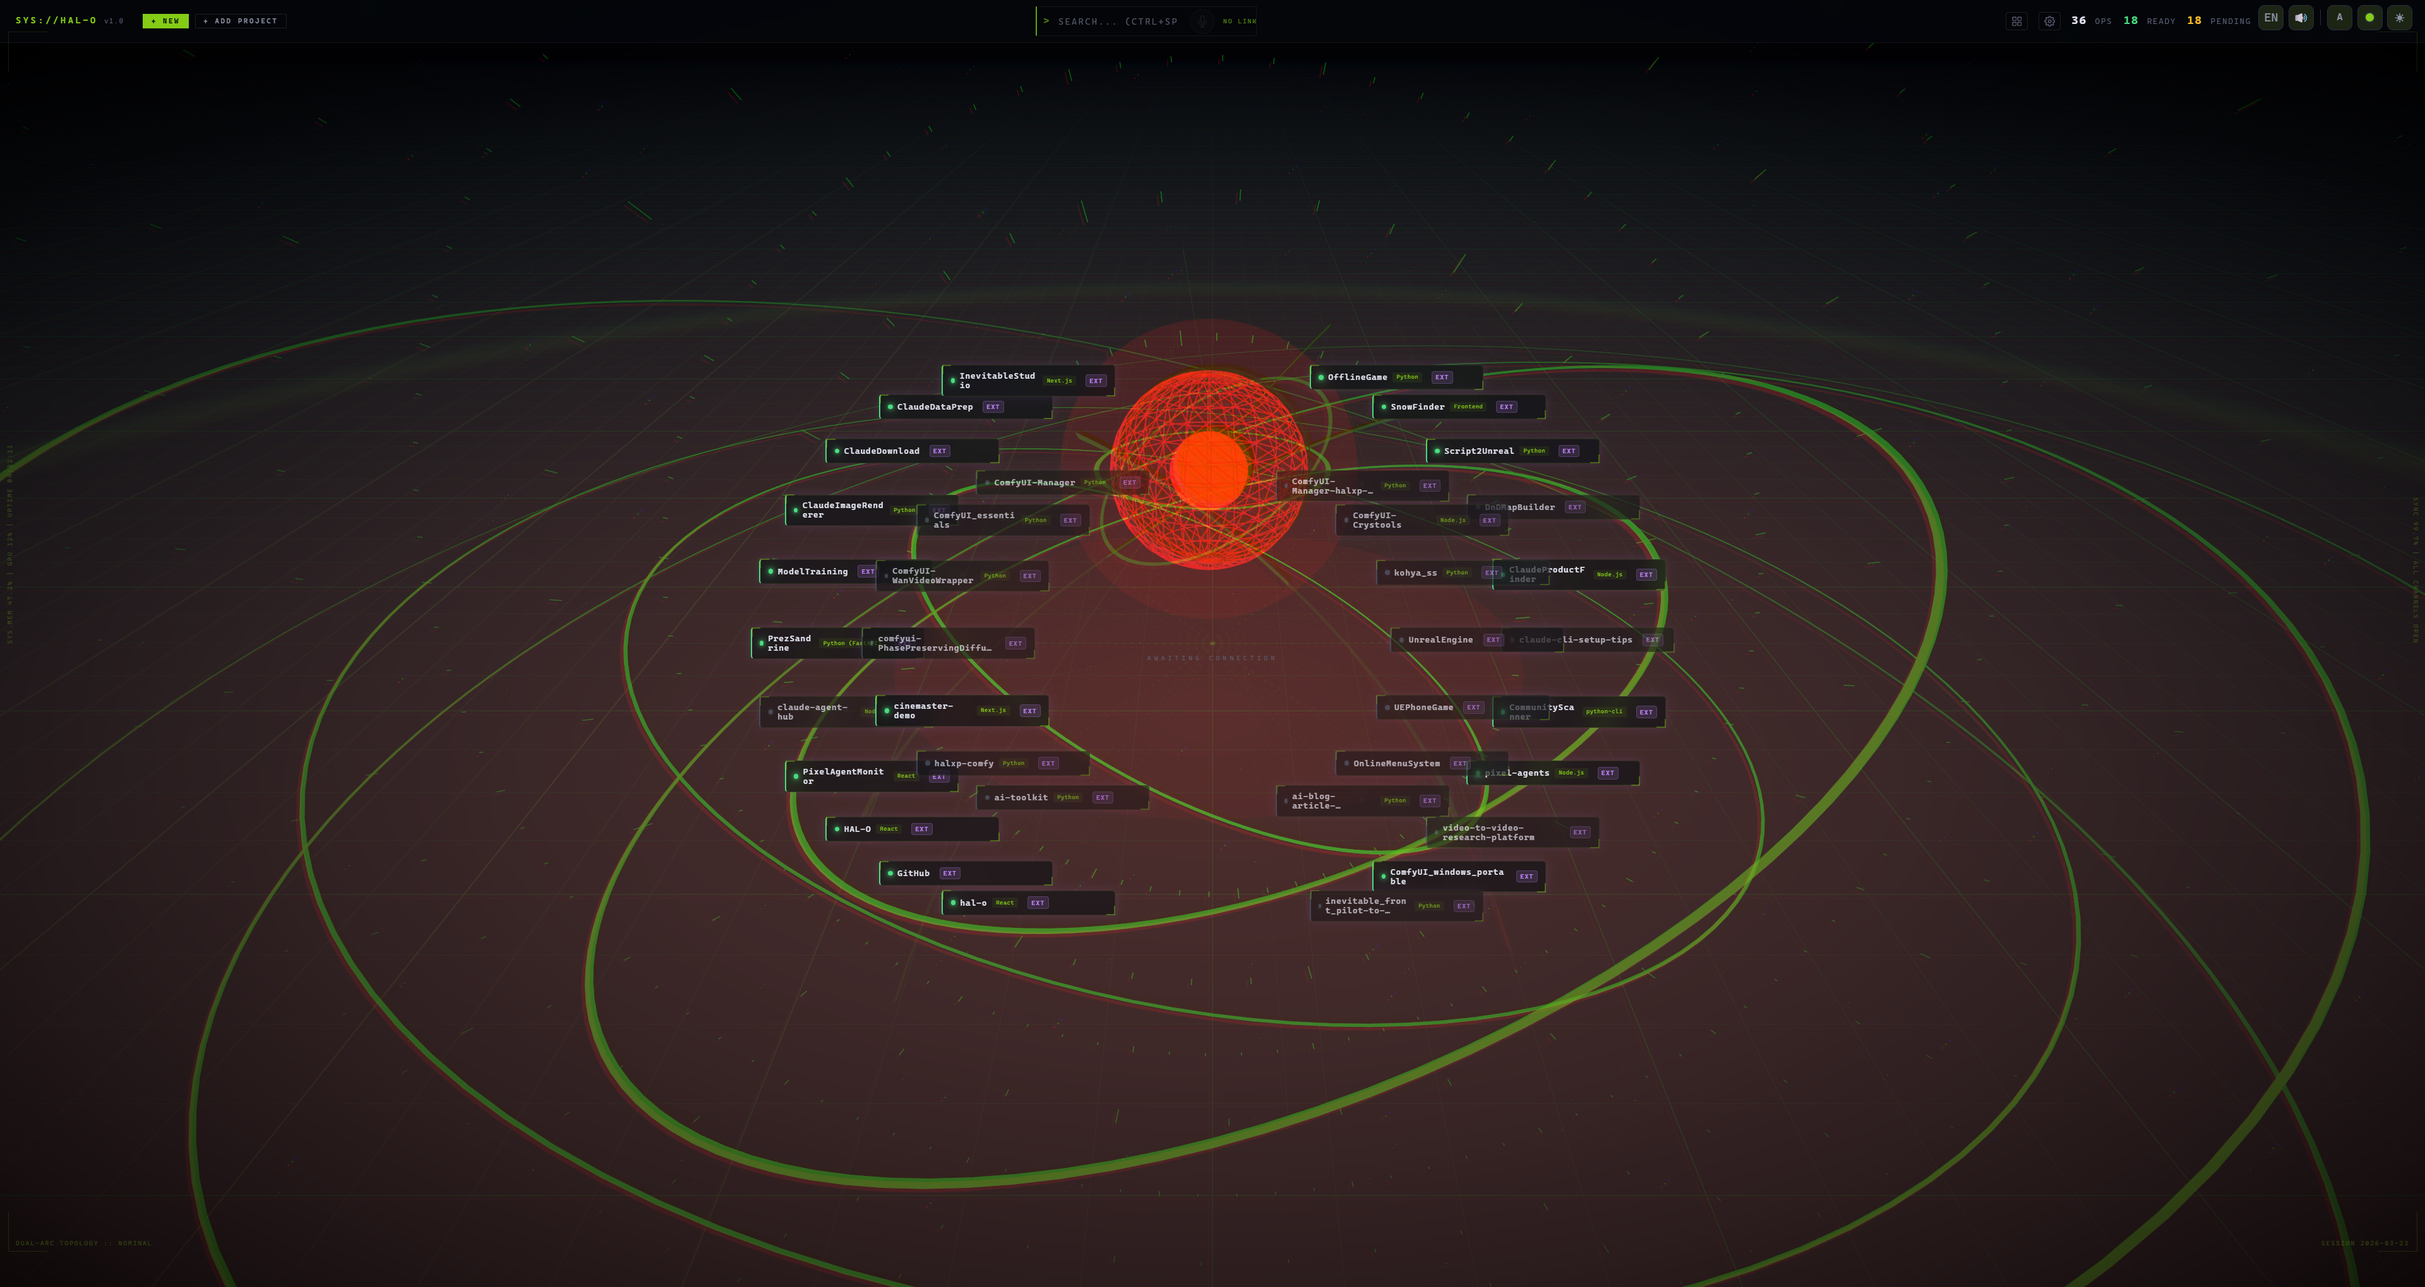
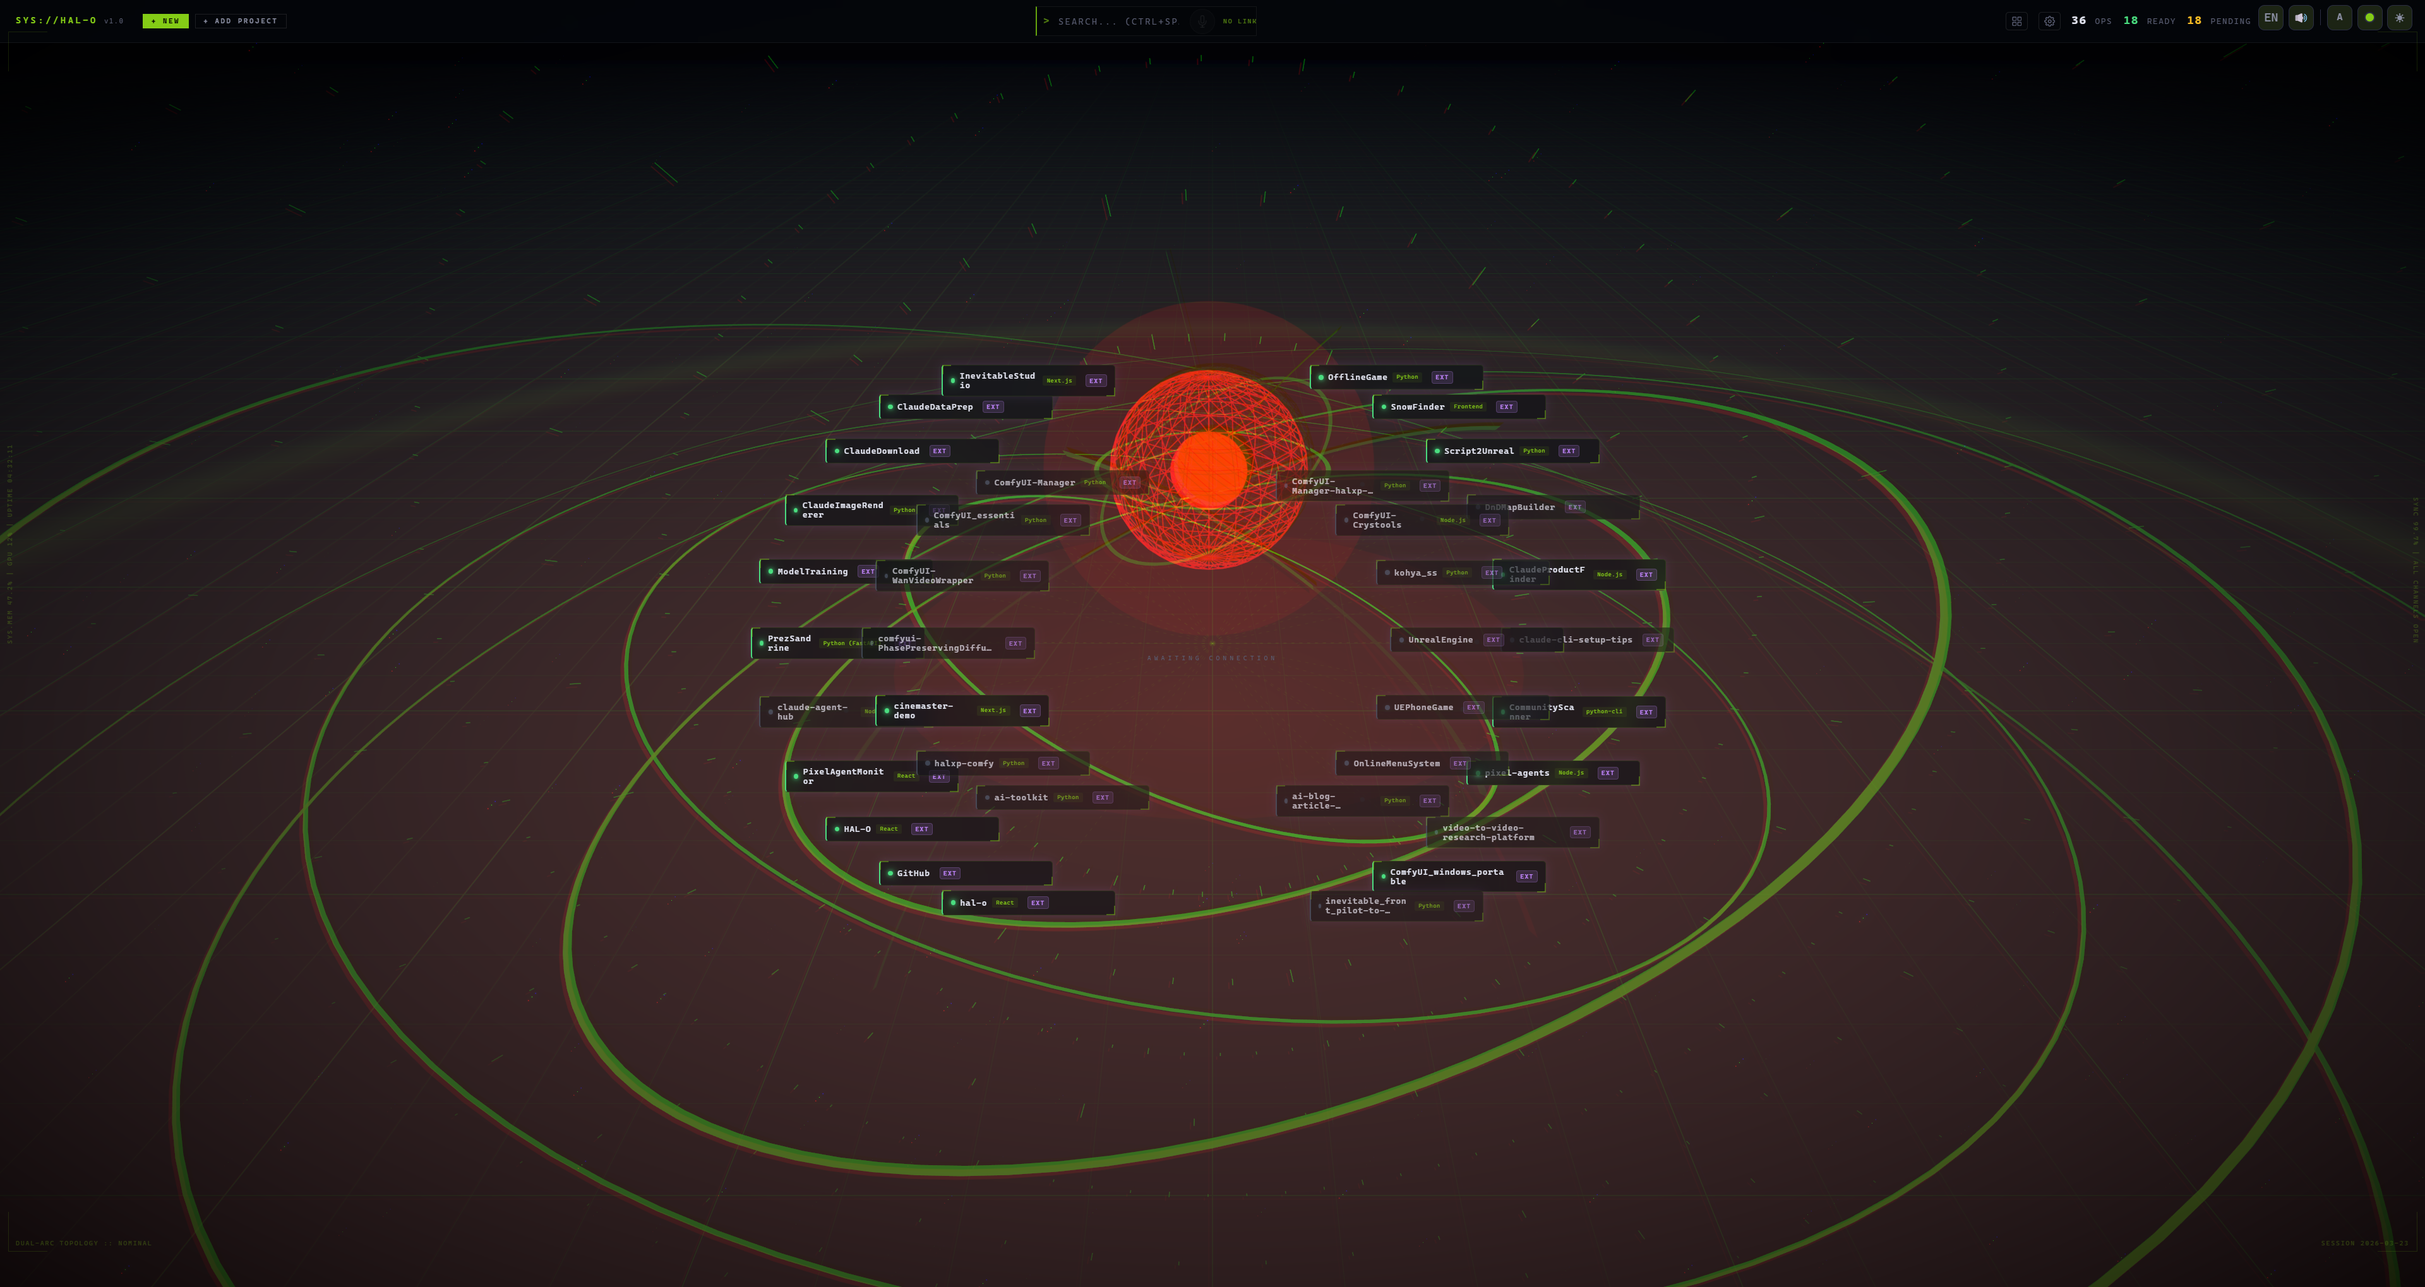
feat: add particle density slider in Settings (D9+D10)
D9: Camera tweaking section already works as collapsible toggle (verified).
D10: New PARTICLE DENSITY slider with human-friendly labels (NONE/LOW/MED/HIGH/MAX)
wired through useSettings -> App -> ProjectHub -> PbrHoloScene -> DataParticles.
Density multipliers: 0x, 0.3x, 1x (default MED), 2x, 3x of base particle count.

diff --git a/src/renderer/src/components/SettingsMenu.tsx b/src/renderer/src/components/SettingsMenu.tsx
@@ -1,5 +1,5 @@
 import { useState, useRef, useEffect, useCallback } from 'react'
-import { VOICE_PROFILES, DOCK_POSITIONS, DEFAULT_CAMERA, type VoiceProfileId, type DockPosition, type CameraSettings } from '../hooks/useSettings'
+import { VOICE_PROFILES, DOCK_POSITIONS, DEFAULT_CAMERA, PARTICLE_DENSITY_LABELS, type VoiceProfileId, type DockPosition, type CameraSettings } from '../hooks/useSettings'
 import type { DemoSettings } from '../hooks/useDemoSettings'
 import { LAYOUTS_3D } from '../layouts3d'
 import { THREE_STYLES } from '../data/three-styles'
@@ -75,6 +75,8 @@ interface Props {
   onVoiceProfileChange: (id: VoiceProfileId) => void
   onDockPositionChange: (pos: DockPosition) => void
   onScreenOpacityChange: (opacity: number) => void
+  particleDensity: number
+  onParticleDensityChange: (v: number) => void
   camera: CameraSettings
   cameraTweaking: boolean
   onCameraChange: (cam: CameraSettings) => void
@@ -117,7 +119,7 @@ function playOrGenerate(text: string, profileId: string, setPreviewing: (v: stri
   }).catch(() => setPreviewing(null))
 }
 
-export function SettingsMenu({ hubFontSize, termFontSize, voiceOut, voiceProfile, dockPosition, screenOpacity, camera, cameraTweaking, rendererId, layoutId, threeTheme, onHubFontSize, onTermFontSize, onVoiceOut, onVoiceProfileChange, onDockPositionChange, onScreenOpacityChange, onCameraChange, onCameraTweakingChange, onCameraReset, onRendererChange, onLayoutChange, onThreeThemeChange, hiddenPaths = [], onUnhide, demo }: Props) {
+export function SettingsMenu({ hubFontSize, termFontSize, voiceOut, voiceProfile, dockPosition, screenOpacity, particleDensity, onParticleDensityChange, camera, cameraTweaking, rendererId, layoutId, threeTheme, onHubFontSize, onTermFontSize, onVoiceOut, onVoiceProfileChange, onDockPositionChange, onScreenOpacityChange, onCameraChange, onCameraTweakingChange, onCameraReset, onRendererChange, onLayoutChange, onThreeThemeChange, hiddenPaths = [], onUnhide, demo }: Props) {
   const [open, setOpen] = useState(false)
   const [previewing, setPreviewing] = useState<string | null>(null)
   const [cameraSaved, setCameraSaved] = useState(false)
@@ -291,6 +293,22 @@ export function SettingsMenu({ hubFontSize, termFontSize, voiceOut, voiceProfile
                 style={{ flex: 1, accentColor: 'var(--primary)' }}
               />
               <span style={{ fontSize: 10, color: 'var(--text-dim)', minWidth: 30 }}>{Math.round(screenOpacity * 100)}%</span>
+            </div>
+          </div>
+
+          <div className="hal-settings-row">
+            <span className="hal-settings-label">PARTICLE DENSITY</span>
+            <div className="hal-settings-control" style={{ display: 'flex', alignItems: 'center', gap: 8 }}>
+              <input
+                type="range"
+                min="0"
+                max="4"
+                step="1"
+                value={particleDensity}
+                onChange={(e) => onParticleDensityChange(parseInt(e.target.value))}
+                style={{ flex: 1, accentColor: 'var(--primary)' }}
+              />
+              <span style={{ fontSize: 10, color: 'var(--text-dim)', minWidth: 30 }}>{PARTICLE_DENSITY_LABELS[particleDensity]}</span>
             </div>
           </div>
 

diff --git a/src/renderer/src/components/ProjectHub.tsx b/src/renderer/src/components/ProjectHub.tsx
@@ -324,6 +324,7 @@ export function ProjectHub({ onNewProject, onConvertProject, onOpenTerminal, voi
           voiceFocus={voiceFocus} halSessionId={halSessionId} onListeningChange={setIsListening}
           projectCount={visibleProjects.length} readyCount={readyCount}
           hubFontSize={hubFontSize} termFontSize={termFontSize} voiceOut={voiceOut} voiceProfile={voiceProfile} dockPosition={dockPosition} screenOpacity={screenOpacity}
+          particleDensity={particleDensity} onParticleDensityChange={onParticleDensityChange}
           camera={camera} cameraTweaking={cameraTweaking}
           rendererId={rendererId} layoutId={layoutId} threeTheme={threeTheme}
           onHubFontSize={onHubFontSize} onTermFontSize={onTermFontSize} onVoiceOut={onVoiceOut} onVoiceProfileChange={onVoiceProfileChange} onDockPositionChange={onDockPositionChange} onScreenOpacityChange={onScreenOpacityChange}
@@ -358,6 +359,7 @@ export function ProjectHub({ onNewProject, onConvertProject, onOpenTerminal, voi
           onCameraMove={onCameraMove}
           blockedInput={voiceBlocked}
           screenOpacity={screenOpacity}
+          particleDensity={particleDensity}
           onProjectContextMenu={(x, y, path, name) => setCtxMenu({ x, y, projectPath: path, projectName: name })}
         />
         <HudTopbar
@@ -365,6 +367,7 @@ export function ProjectHub({ onNewProject, onConvertProject, onOpenTerminal, voi
           voiceFocus={voiceFocus} halSessionId={halSessionId} onListeningChange={setIsListening}
           projectCount={visibleProjects.length} readyCount={readyCount}
           hubFontSize={hubFontSize} termFontSize={termFontSize} voiceOut={voiceOut} voiceProfile={voiceProfile} dockPosition={dockPosition} screenOpacity={screenOpacity}
+          particleDensity={particleDensity} onParticleDensityChange={onParticleDensityChange}
           camera={camera} cameraTweaking={cameraTweaking}
           rendererId={rendererId} layoutId={layoutId} threeTheme={threeTheme}
           onHubFontSize={onHubFontSize} onTermFontSize={onTermFontSize} onVoiceOut={onVoiceOut} onVoiceProfileChange={onVoiceProfileChange} onDockPositionChange={onDockPositionChange} onScreenOpacityChange={onScreenOpacityChange}
@@ -408,6 +411,7 @@ export function ProjectHub({ onNewProject, onConvertProject, onOpenTerminal, voi
           voiceFocus={voiceFocus} halSessionId={halSessionId} onListeningChange={setIsListening}
           projectCount={visibleProjects.length} readyCount={readyCount}
           hubFontSize={hubFontSize} termFontSize={termFontSize} voiceOut={voiceOut} voiceProfile={voiceProfile} dockPosition={dockPosition} screenOpacity={screenOpacity}
+          particleDensity={particleDensity} onParticleDensityChange={onParticleDensityChange}
           camera={camera} cameraTweaking={cameraTweaking}
           rendererId={rendererId} layoutId={layoutId} threeTheme={threeTheme}
           onHubFontSize={onHubFontSize} onTermFontSize={onTermFontSize} onVoiceOut={onVoiceOut} onVoiceProfileChange={onVoiceProfileChange} onDockPositionChange={onDockPositionChange} onScreenOpacityChange={onScreenOpacityChange}

diff --git a/src/renderer/src/hooks/useSettings.ts b/src/renderer/src/hooks/useSettings.ts
@@ -46,6 +46,9 @@ export const DEFAULT_CAMERA: CameraSettings = {
   cameraAngle: 32,
 }
 
+export const PARTICLE_DENSITY_LABELS = ['NONE', 'LOW', 'MED', 'HIGH', 'MAX'] as const
+export const PARTICLE_DENSITY_MULTIPLIERS = [0, 0.3, 1, 2, 3] as const
+
 export interface SettingsState {
   hubFontSize: number
   termFontSize: number
@@ -55,6 +58,7 @@ export interface SettingsState {
   screenOpacity: number
   camera: CameraSettings
   cameraTweaking: boolean
+  particleDensity: number
   rendererId: string
   layoutId: string
   threeTheme: string
@@ -67,6 +71,7 @@ export interface SettingsState {
   updateCamera: (cam: CameraSettings) => void
   updateCameraTweaking: (on: boolean) => void
   resetCamera: () => void
+  updateParticleDensity: (v: number) => void
   updateRenderer: (id: string) => void
   updateLayout: (id: string) => void
   updateThreeTheme: (id: string) => void
@@ -83,6 +88,10 @@ export function useSettings(): SettingsState {
     try { const c = localStorage.getItem('hal-o-camera'); return c ? JSON.parse(c) : DEFAULT_CAMERA } catch { return DEFAULT_CAMERA }
   })
   const [cameraTweaking, setCameraTweaking] = useState(() => localStorage.getItem('hal-o-camera-tweaking') === 'true')
+  const [particleDensity, setParticleDensity] = useState(() => {
+    const stored = localStorage.getItem('hal-o-particle-density')
+    return stored !== null ? parseInt(stored) : 2
+  })
   const [rendererId, setRendererId] = useState<string>(() => localStorage.getItem('hal-o-renderer') || 'classic')
   const [layoutId, setLayoutId] = useState<string>(() => localStorage.getItem('hal-o-layout') || 'dual-arc')
   const [threeTheme, setThreeTheme] = useState<string>(() => localStorage.getItem('hal-o-3d-theme') || 'tactical')
@@ -135,9 +144,13 @@ export function useSettings(): SettingsState {
     setCamera(DEFAULT_CAMERA)
     localStorage.setItem('hal-o-camera', JSON.stringify(DEFAULT_CAMERA))
   }, [])
+  const updateParticleDensity = useCallback((v: number) => {
+    setParticleDensity(v)
+    localStorage.setItem('hal-o-particle-density', String(v))
+  }, [])
 
   return {
-    hubFontSize, termFontSize, voiceOut, voiceProfile, dockPosition, screenOpacity, camera, cameraTweaking, rendererId, layoutId, threeTheme,
-    updateHubFont, updateTermFont, updateVoiceOut, updateVoiceProfile, updateDockPosition, updateScreenOpacity, updateCamera, updateCameraTweaking, resetCamera, updateRenderer, updateLayout, updateThreeTheme,
+    hubFontSize, termFontSize, voiceOut, voiceProfile, dockPosition, screenOpacity, camera, cameraTweaking, particleDensity, rendererId, layoutId, threeTheme,
+    updateHubFont, updateTermFont, updateVoiceOut, updateVoiceProfile, updateDockPosition, updateScreenOpacity, updateCamera, updateCameraTweaking, resetCamera, updateParticleDensity, updateRenderer, updateLayout, updateThreeTheme,
   }
 }

diff --git a/src/renderer/src/components/HudTopbar.tsx b/src/renderer/src/components/HudTopbar.tsx
@@ -31,6 +31,8 @@ interface HudTopbarProps {
   onVoiceProfileChange: (id: VoiceProfileId) => void
   onDockPositionChange: (pos: DockPosition) => void
   onScreenOpacityChange: (opacity: number) => void
+  particleDensity: number
+  onParticleDensityChange: (v: number) => void
   camera: CameraSettings
   cameraTweaking: boolean
   onCameraChange: (cam: CameraSettings) => void
@@ -57,8 +59,8 @@ export function HudTopbar({
   search, onSearchChange, onNewProject, onConvertProject,
   voiceFocus, halSessionId, onListeningChange,
   projectCount, readyCount,
-  hubFontSize, termFontSize, voiceOut, voiceProfile, dockPosition, screenOpacity, camera, cameraTweaking, rendererId, layoutId, threeTheme,
-  onHubFontSize, onTermFontSize, onVoiceOut, onVoiceProfileChange, onDockPositionChange, onScreenOpacityChange, onCameraChange, onCameraTweakingChange, onCameraReset, onRendererChange, onLayoutChange, onThreeThemeChange,
+  hubFontSize, termFontSize, voiceOut, voiceProfile, dockPosition, screenOpacity, particleDensity, camera, cameraTweaking, rendererId, layoutId, threeTheme,
+  onHubFontSize, onTermFontSize, onVoiceOut, onVoiceProfileChange, onDockPositionChange, onScreenOpacityChange, onParticleDensityChange, onCameraChange, onCameraTweakingChange, onCameraReset, onRendererChange, onLayoutChange, onThreeThemeChange,
   groups = [], onCreateGroup, onDeleteGroup, onRenameGroup, onReorderGroups, onApplyPreset,
   hiddenPaths = [], onUnhide,
   demo,
@@ -123,6 +125,7 @@ export function HudTopbar({
         )}
         <SettingsMenu
           hubFontSize={hubFontSize} termFontSize={termFontSize} voiceOut={voiceOut} voiceProfile={voiceProfile} dockPosition={dockPosition} screenOpacity={screenOpacity}
+          particleDensity={particleDensity} onParticleDensityChange={onParticleDensityChange}
           camera={camera} cameraTweaking={cameraTweaking}
           rendererId={rendererId as any} layoutId={layoutId as any} threeTheme={threeTheme}
           onHubFontSize={onHubFontSize} onTermFontSize={onTermFontSize} onVoiceOut={onVoiceOut}

diff --git a/src/renderer/src/components/three/DataParticles.tsx b/src/renderer/src/components/three/DataParticles.tsx
@@ -3,9 +3,13 @@ import { useFrame } from '@react-three/fiber'
 import * as THREE from 'three'
 import { useThreeTheme } from '../../contexts/ThreeThemeContext'
 
+/** Density multipliers: NONE=0, LOW=0.3, MED=1, HIGH=2, MAX=3 */
+const DENSITY_MULTIPLIERS = [0, 0.3, 1, 2, 3] as const
+
 interface Props {
   projectCount: number
   hideDist?: number
+  densityLevel?: number  // 0-4 index into DENSITY_MULTIPLIERS
 }
 
 // Pre-allocated scratch vectors — never allocate in useFrame
@@ -14,14 +18,16 @@ const _v3 = new THREE.Vector3()
 /**
  * Ambient data particles drifting through the scene.
  * A mix of slow-swirling motes and faster vertical "data stream" columns.
- * Particle count scales with project count.
+ * Particle count scales with project count and density setting.
  * Colors are derived from the active 3D theme.
  */
-export function DataParticles({ projectCount, hideDist = 4 }: Props) {
+export function DataParticles({ projectCount, hideDist = 4, densityLevel = 2 }: Props) {
   const theme = useThreeTheme()
   const pointsRef = useRef<THREE.Points>(null)
 
-  const count = 200 + projectCount * 10
+  const densityMultiplier = DENSITY_MULTIPLIERS[Math.max(0, Math.min(4, densityLevel))] ?? 1
+  const baseCount = 200 + projectCount * 10
+  const count = Math.round(baseCount * densityMultiplier)
 
   // Generate initial positions, velocities, and per-particle properties
   const { positions, seeds, colors } = useMemo(() => {
@@ -175,6 +181,9 @@ export function DataParticles({ projectCount, hideDist = 4 }: Props) {
 
     geo.attributes.position.needsUpdate = true
   })
+
+  // NONE density — render nothing (all hooks already called above)
+  if (count === 0) return null
 
   return (
     <points ref={pointsRef}>

diff --git a/src/renderer/src/App.tsx b/src/renderer/src/App.tsx
@@ -100,7 +100,7 @@ export function App() {
   const chatEndRef = useRef<HTMLDivElement>(null)
   const demo = useDemoSettings()
   const { termSessions, voiceFocus, setVoiceFocus, getHalSessionId, openTerminal, closeTerminal } = useTerminalSessions(demo.enabled)
-  const { hubFontSize, termFontSize, voiceOut, voiceProfile, dockPosition, screenOpacity, camera, cameraTweaking, rendererId, layoutId, threeTheme, updateHubFont, updateTermFont, updateVoiceOut, updateVoiceProfile, updateDockPosition, updateScreenOpacity, updateCamera, updateCameraTweaking, resetCamera, updateRenderer, updateLayout, updateThreeTheme } = useSettings()
+  const { hubFontSize, termFontSize, voiceOut, voiceProfile, dockPosition, screenOpacity, camera, cameraTweaking, particleDensity, rendererId, layoutId, threeTheme, updateHubFont, updateTermFont, updateVoiceOut, updateVoiceProfile, updateDockPosition, updateScreenOpacity, updateCamera, updateCameraTweaking, resetCamera, updateParticleDensity, updateRenderer, updateLayout, updateThreeTheme } = useSettings()
 
   // Camera sync: orbit/zoom -> sliders (only when tweaking is enabled)
   // Use a ref to avoid stale closures and prevent render loops
@@ -322,6 +322,8 @@ export function App() {
             onVoiceProfileChange={updateVoiceProfile}
             onDockPositionChange={updateDockPosition}
             onScreenOpacityChange={updateScreenOpacity}
+            particleDensity={particleDensity}
+            onParticleDensityChange={updateParticleDensity}
             camera={camera}
             cameraTweaking={cameraTweaking}
             onCameraChange={updateCamera}
